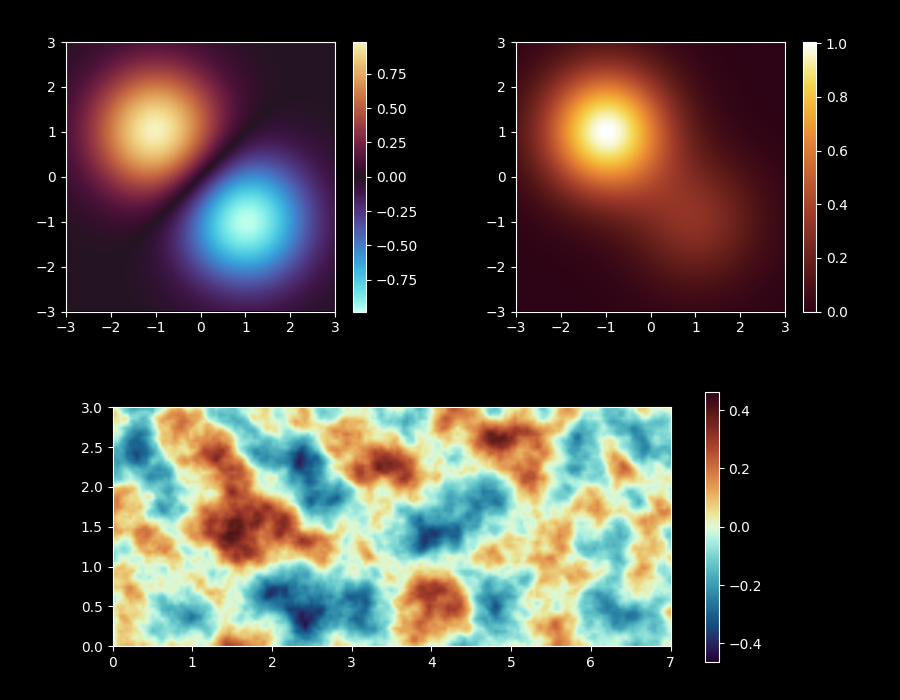
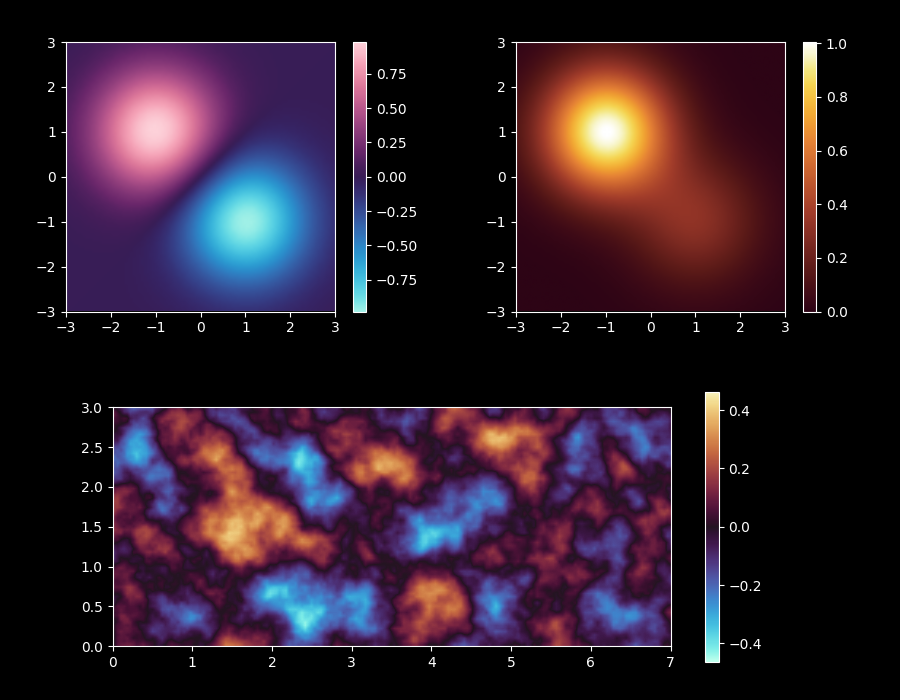
:sparkles: Color maps of blue and red for dark mode.

diff --git a/ok_palette_lab/matplotlib.py b/ok_palette_lab/matplotlib.py
@@ -866,6 +866,114 @@ blue_orange_dark_wide: matplotlib.colors.LinearSegmentedColormap = (
 )
 """A color map of blue, dark purple, and orange with wider range of lightness."""
 
+blue_red_dark: matplotlib.colors.LinearSegmentedColormap = (
+    matplotlib.colors.LinearSegmentedColormap.from_list(
+        name="blue_red_dark",
+        colors=[
+            (0.0, "#9ff0e7"),
+            (0.021117608836907081, "#8ae9e6"),
+            (0.042235217673814163, "#74e1e5"),
+            (0.063352826510721244, "#64d8e4"),
+            (0.084470435347628325, "#56cfe3"),
+            (0.10558804418453541, "#4bc6e0"),
+            (0.12670565302144249, "#41bcdd"),
+            (0.14782326185834957, "#38b3da"),
+            (0.16894087069525665, "#32a9d6"),
+            (0.19005847953216373, "#2d9fd3"),
+            (0.21117608836907081, "#2b95ce"),
+            (0.23229369720597792, "#2b8bca"),
+            (0.25341130604288498, "#2e81c3"),
+            (0.27452891487979203, "#3177bc"),
+            (0.29564652371669914, "#336db3"),
+            (0.31676413255360625, "#3464ab"),
+            (0.3378817413905133, "#355aa2"),
+            (0.35899935022742036, "#365199"),
+            (0.38011695906432746, "#354890"),
+            (0.40123456790123457, "#353f87"),
+            (0.43415637860082312, "#363176"),
+            (0.46707818930041156, "#362566"),
+            (0.5, "#381d56"),
+            (0.53292181069958855, "#461e5a"),
+            (0.56584362139917699, "#572262"),
+            (0.59876543209876543, "#6b276b"),
+            (0.61988304093567248, "#752e70"),
+            (0.64100064977257953, "#7f3475"),
+            (0.6621182586094867, "#8a3a79"),
+            (0.68323586744639375, "#94417e"),
+            (0.70435347628330081, "#9f4782"),
+            (0.72547108512020797, "#aa4e87"),
+            (0.74658869395711502, "#b5558b"),
+            (0.76770630279402208, "#bf5c8e"),
+            (0.78882391163092913, "#c96592"),
+            (0.80994152046783618, "#d26d96"),
+            (0.83105912930474335, "#db7699"),
+            (0.85217673814165051, "#e2809f"),
+            (0.87329434697855746, "#e88ba6"),
+            (0.89441195581546462, "#ee96ae"),
+            (0.91552956465237179, "#f4a0b5"),
+            (0.93664717348927873, "#f7acbe"),
+            (0.95776478232618567, "#f9b9c7"),
+            (0.97888239116309284, "#fbc5d0"),
+            (1.0, "#fdd1d9"),
+        ],
+    )
+)
+"""A color map of blue, dark purple, and red."""
+
+blue_red_dark_wide: matplotlib.colors.LinearSegmentedColormap = (
+    matplotlib.colors.LinearSegmentedColormap.from_list(
+        name="blue_red_dark_wide",
+        colors=[
+            (0.0, "#bcf6ec"),
+            (0.022815065185900527, "#9defe7"),
+            (0.045630130371801053, "#82e6e5"),
+            (0.06844519555770158, "#6adce4"),
+            (0.091260260743602106, "#57d0e3"),
+            (0.11407532592950263, "#49c4e0"),
+            (0.13689039111540316, "#3db8dc"),
+            (0.15970545630130367, "#34acd7"),
+            (0.18252052148720421, "#2e9fd3"),
+            (0.20533558667310473, "#2b93cd"),
+            (0.22815065185900527, "#2c86c7"),
+            (0.25096571704490578, "#307abe"),
+            (0.27378078223080632, "#336db4"),
+            (0.29659584741670686, "#3461a9"),
+            (0.31941091260260734, "#35569e"),
+            (0.34222597778850788, "#354a93"),
+            (0.36504104297440843, "#353f87"),
+            (0.38785610816030891, "#333578"),
+            (0.41067117334620945, "#312b6a"),
+            (0.43348623853211005, "#2d225c"),
+            (0.45565749235473996, "#281b4d"),
+            (0.47782874617736992, "#231541"),
+            (0.49999999999999994, "#1f142e"),
+            (0.52217125382262986, "#2b113c"),
+            (0.54434250764525982, "#361446"),
+            (0.56651376146788979, "#431651"),
+            (0.58932882665379038, "#4f1c5a"),
+            (0.61214389183969087, "#5d2162"),
+            (0.63495895702559146, "#6a276b"),
+            (0.65777402221149195, "#772f71"),
+            (0.68058908739739243, "#843777"),
+            (0.70340415258329303, "#923f7d"),
+            (0.72621921776919351, "#9f4882"),
+            (0.74903428295509422, "#ad5088"),
+            (0.77184934814099471, "#bb598d"),
+            (0.79466441332689519, "#c76391"),
+            (0.81747947851279568, "#d36e96"),
+            (0.84029454369869627, "#de799b"),
+            (0.86310960888459676, "#e686a3"),
+            (0.88592467407049746, "#ed94ac"),
+            (0.90873973925639795, "#f4a1b6"),
+            (0.93155480444229843, "#f8b1c1"),
+            (0.95436986962819892, "#fac0cc"),
+            (0.9771849348140994, "#fccfd8"),
+            (1.0, "#fbe0e4"),
+        ],
+    )
+)
+"""A color map of blue, dark purple, and red with wider range of lightness."""
+
 rainbow: matplotlib.colors.LinearSegmentedColormap = (
     matplotlib.colors.LinearSegmentedColormap.from_list(
         name="rainbow",

diff --git a/ok_palette_lab/plotly.py b/ok_palette_lab/plotly.py
@@ -765,6 +765,104 @@ blue_orange_dark_wide: list[tuple[float, str]] = [
 ]
 """A color map of blue, dark purple, and orange with wider range of lightness."""
 
+blue_red_dark: list[tuple[float, str]] = [
+    (0.0, "#9ff0e7"),
+    (0.021117608836907081, "#8ae9e6"),
+    (0.042235217673814163, "#74e1e5"),
+    (0.063352826510721244, "#64d8e4"),
+    (0.084470435347628325, "#56cfe3"),
+    (0.10558804418453541, "#4bc6e0"),
+    (0.12670565302144249, "#41bcdd"),
+    (0.14782326185834957, "#38b3da"),
+    (0.16894087069525665, "#32a9d6"),
+    (0.19005847953216373, "#2d9fd3"),
+    (0.21117608836907081, "#2b95ce"),
+    (0.23229369720597792, "#2b8bca"),
+    (0.25341130604288498, "#2e81c3"),
+    (0.27452891487979203, "#3177bc"),
+    (0.29564652371669914, "#336db3"),
+    (0.31676413255360625, "#3464ab"),
+    (0.3378817413905133, "#355aa2"),
+    (0.35899935022742036, "#365199"),
+    (0.38011695906432746, "#354890"),
+    (0.40123456790123457, "#353f87"),
+    (0.43415637860082312, "#363176"),
+    (0.46707818930041156, "#362566"),
+    (0.5, "#381d56"),
+    (0.53292181069958855, "#461e5a"),
+    (0.56584362139917699, "#572262"),
+    (0.59876543209876543, "#6b276b"),
+    (0.61988304093567248, "#752e70"),
+    (0.64100064977257953, "#7f3475"),
+    (0.6621182586094867, "#8a3a79"),
+    (0.68323586744639375, "#94417e"),
+    (0.70435347628330081, "#9f4782"),
+    (0.72547108512020797, "#aa4e87"),
+    (0.74658869395711502, "#b5558b"),
+    (0.76770630279402208, "#bf5c8e"),
+    (0.78882391163092913, "#c96592"),
+    (0.80994152046783618, "#d26d96"),
+    (0.83105912930474335, "#db7699"),
+    (0.85217673814165051, "#e2809f"),
+    (0.87329434697855746, "#e88ba6"),
+    (0.89441195581546462, "#ee96ae"),
+    (0.91552956465237179, "#f4a0b5"),
+    (0.93664717348927873, "#f7acbe"),
+    (0.95776478232618567, "#f9b9c7"),
+    (0.97888239116309284, "#fbc5d0"),
+    (1.0, "#fdd1d9"),
+]
+"""A color map of blue, dark purple, and red."""
+
+blue_red_dark_wide: list[tuple[float, str]] = [
+    (0.0, "#bcf6ec"),
+    (0.022815065185900527, "#9defe7"),
+    (0.045630130371801053, "#82e6e5"),
+    (0.06844519555770158, "#6adce4"),
+    (0.091260260743602106, "#57d0e3"),
+    (0.11407532592950263, "#49c4e0"),
+    (0.13689039111540316, "#3db8dc"),
+    (0.15970545630130367, "#34acd7"),
+    (0.18252052148720421, "#2e9fd3"),
+    (0.20533558667310473, "#2b93cd"),
+    (0.22815065185900527, "#2c86c7"),
+    (0.25096571704490578, "#307abe"),
+    (0.27378078223080632, "#336db4"),
+    (0.29659584741670686, "#3461a9"),
+    (0.31941091260260734, "#35569e"),
+    (0.34222597778850788, "#354a93"),
+    (0.36504104297440843, "#353f87"),
+    (0.38785610816030891, "#333578"),
+    (0.41067117334620945, "#312b6a"),
+    (0.43348623853211005, "#2d225c"),
+    (0.45565749235473996, "#281b4d"),
+    (0.47782874617736992, "#231541"),
+    (0.49999999999999994, "#1f142e"),
+    (0.52217125382262986, "#2b113c"),
+    (0.54434250764525982, "#361446"),
+    (0.56651376146788979, "#431651"),
+    (0.58932882665379038, "#4f1c5a"),
+    (0.61214389183969087, "#5d2162"),
+    (0.63495895702559146, "#6a276b"),
+    (0.65777402221149195, "#772f71"),
+    (0.68058908739739243, "#843777"),
+    (0.70340415258329303, "#923f7d"),
+    (0.72621921776919351, "#9f4882"),
+    (0.74903428295509422, "#ad5088"),
+    (0.77184934814099471, "#bb598d"),
+    (0.79466441332689519, "#c76391"),
+    (0.81747947851279568, "#d36e96"),
+    (0.84029454369869627, "#de799b"),
+    (0.86310960888459676, "#e686a3"),
+    (0.88592467407049746, "#ed94ac"),
+    (0.90873973925639795, "#f4a1b6"),
+    (0.93155480444229843, "#f8b1c1"),
+    (0.95436986962819892, "#fac0cc"),
+    (0.9771849348140994, "#fccfd8"),
+    (1.0, "#fbe0e4"),
+]
+"""A color map of blue, dark purple, and red with wider range of lightness."""
+
 rainbow: list[tuple[float, str]] = [
     (0.0, "#4854c2"),
     (0.052631578947368425, "#366ece"),

diff --git a/ok_palette_lab_tools/docs/generate_images.py b/ok_palette_lab_tools/docs/generate_images.py
@@ -33,7 +33,7 @@ def generate_gaussian_image(*, is_light: bool) -> None:
     else:
         matplotlib.pyplot.style.use("dark_background")
         file_name_suffix = "_dark"
-        color_map = ok_palette_lab.matplotlib.blue_orange_dark_wide
+        color_map = ok_palette_lab.matplotlib.blue_red_dark
 
     figure, axes = matplotlib.pyplot.subplots()
     heatmap = axes.imshow(
@@ -102,7 +102,7 @@ def generate_perlin_noise_image(*, is_light: bool) -> None:
     else:
         matplotlib.pyplot.style.use("dark_background")
         file_name_suffix = "_dark"
-        color_map = ok_palette_lab.matplotlib.blue_brown_light_wide
+        color_map = ok_palette_lab.matplotlib.blue_orange_dark_wide
 
     figure, axes = matplotlib.pyplot.subplots()
     heatmap = axes.imshow(

diff --git a/ok_palette_lab_tools/color_maps/color_map_names.py b/ok_palette_lab_tools/color_maps/color_map_names.py
@@ -38,6 +38,8 @@ def get_diverging_color_map_names() -> list[str]:
         "blue_red_light_wide",
         "blue_orange_dark",
         "blue_orange_dark_wide",
+        "blue_red_dark",
+        "blue_red_dark_wide",
         "rainbow",
     ]
 

diff --git a/ok_palette_lab_tools/icon/generate_icon.py b/ok_palette_lab_tools/icon/generate_icon.py
@@ -16,7 +16,7 @@ ICON_MARGIN = 5
 ICON_FOREGROUND_RADIUS = 2
 
 COLOR_MAP_NAME = "blue_red_light"
-DARK_COLOR_MAP_NAME = "blue_orange_dark_wide"
+DARK_COLOR_MAP_NAME = "blue_orange_dark"
 BACKGROUND_COLOR = "#fbebe3"
 
 

diff --git a/docs/source/color_maps.md b/docs/source/color_maps.md
@@ -63,7 +63,7 @@ figure = plot_color_maps(
     color_map_names=get_diverging_color_map_names(),
     z_range=(-1.0, 1.0),
 )
-figure.update_layout(height=900)
+figure.update_layout(height=1000)
 figure.show()
 ```
 

diff --git a/docs/source/samples/spiral_pattern.md b/docs/source/samples/spiral_pattern.md
@@ -99,7 +99,7 @@ figure = plot_spiral_pattern(
 )
 figure.update_layout({
     "title": "Spiral Pattern with Diverging Color Maps",
-    "height": 1900,
+    "height": 2200,
 })
 figure.show()
 ```

diff --git a/docs/source/samples/perlin_noise.md b/docs/source/samples/perlin_noise.md
@@ -132,7 +132,7 @@ figure = plot_perlin_noise(
 )
 figure.update_layout({
     "title": "Perlin Noise with Diverging Color Maps",
-    "height": 1900,
+    "height": 2200,
 })
 figure.show()
 ```

diff --git a/docs/source/samples/peaks.md b/docs/source/samples/peaks.md
@@ -176,7 +176,7 @@ figure = plot_peaks(
 )
 figure.update_layout({
     "title": "Peaks Function with Diverging Color Maps",
-    "height": 1900,
+    "height": 2200,
 })
 figure.show()
 ```
